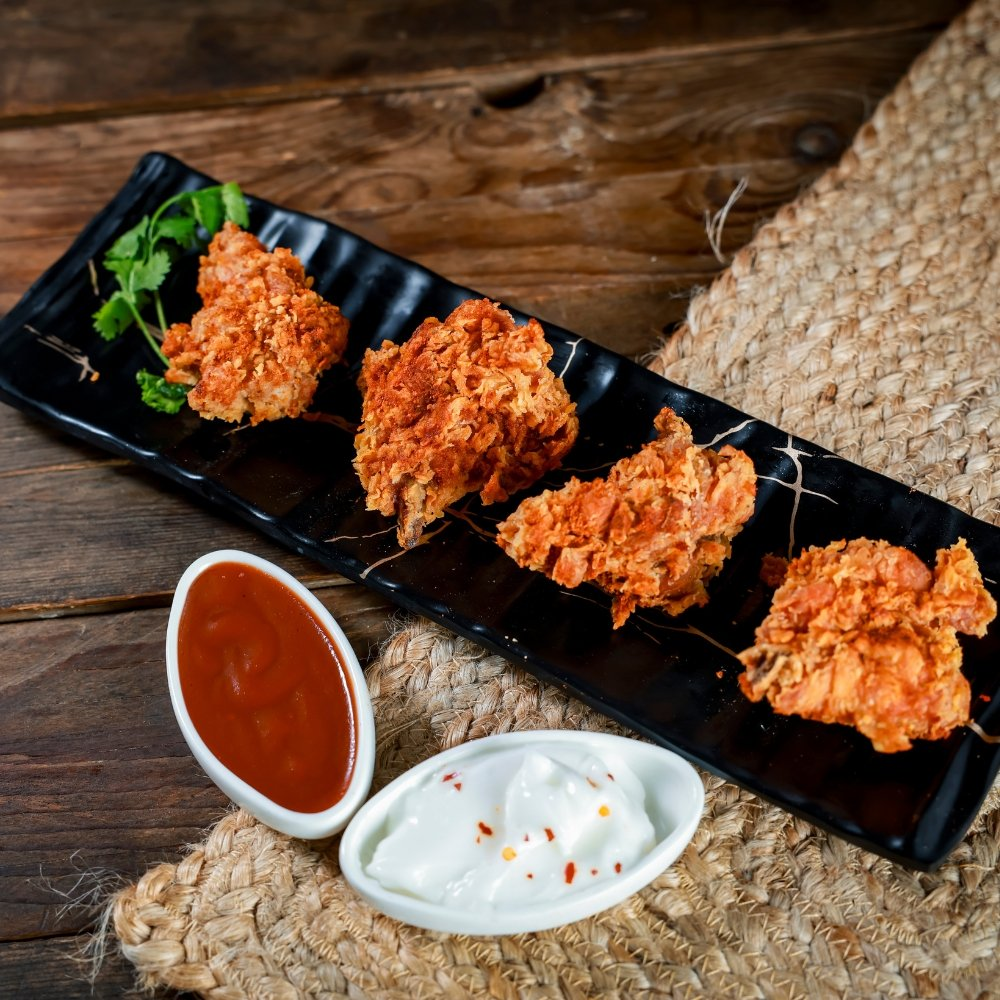
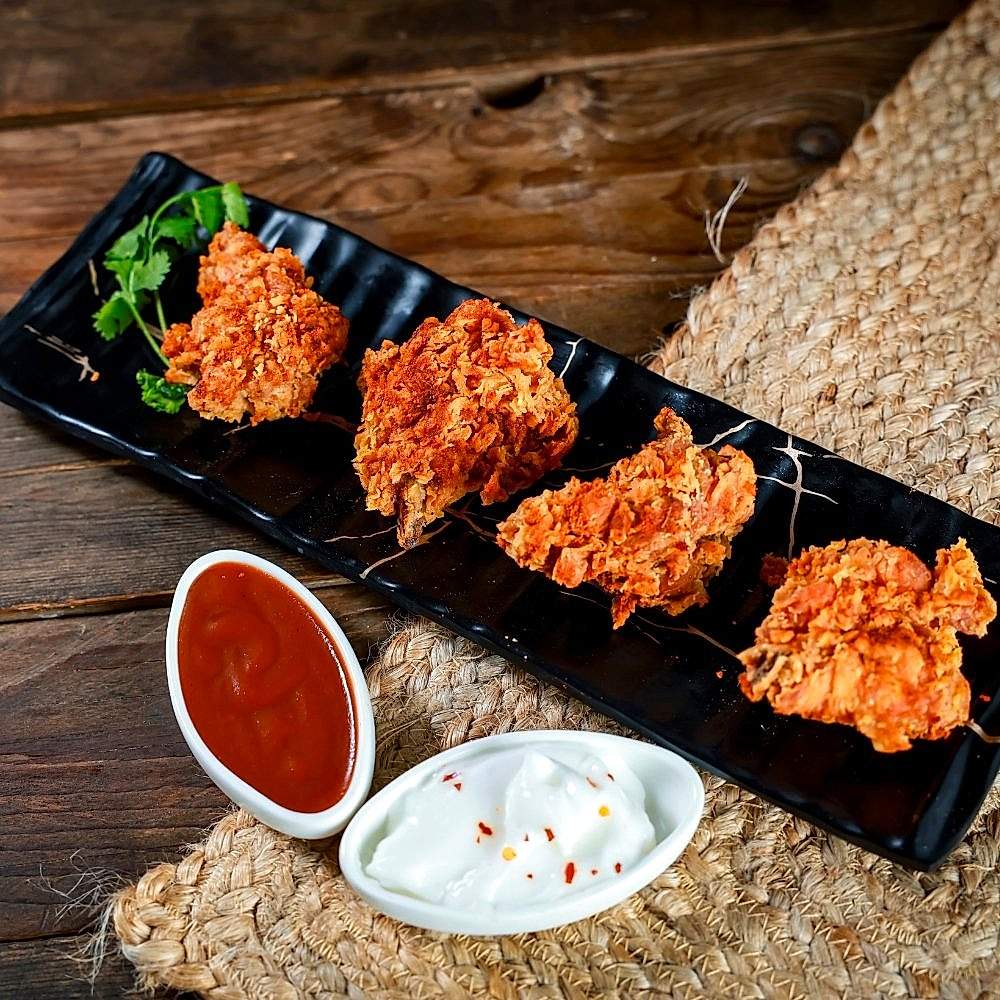
updated

diff --git a/scripts/enhance-images.ts b/scripts/enhance-images.ts
@@ -1,0 +1,67 @@
+import fs from "node:fs/promises";
+import path from "node:path";
+import sharp from "sharp";
+
+const SEED_DIR = path.resolve("prisma/seed-assets");
+const OUT_DIR = path.resolve("prisma/enhanced-assets");
+
+async function enhanceWeCrunch() {
+  await fs.mkdir(OUT_DIR, { recursive: true });
+  console.log("Enhancing WeCrunch images...");
+
+  // 1. about-north.jpg (State Selector image!)
+  const genChickenHero = "C:/Users/Digitfellas/.gemini/antigravity-ide/brain/51b2069d-0af7-46a4-898b-fcd50645957d/wecrunch_state_selector_hero_1792702233494.jpg";
+  if (await fs.stat(genChickenHero).catch(() => null)) {
+    const buf = await fs.readFile(genChickenHero);
+    await sharp(buf)
+      .resize(1600, 1600, { fit: "cover" })
+      .jpeg({ quality: 92 })
+      .toFile(path.join(OUT_DIR, "about-north.jpg"));
+    console.log("✓ Enhanced about-north.jpg (AI 8K Crispy Chicken State Selector Hero)");
+
+    // Also update home-bg.jpg with this high-res hero
+    await sharp(buf)
+      .resize(1600, 1600, { fit: "cover" })
+      .jpeg({ quality: 92 })
+      .toFile(path.join(OUT_DIR, "home-bg.jpg"));
+    console.log("✓ Enhanced home-bg.jpg (AI 8K Crispy Chicken Hero)");
+  }
+
+  // 2. outlet-2.webp (Flagship Night Storefront)
+  const genStore = "C:/Users/Digitfellas/.gemini/antigravity-ide/brain/51b2069d-0af7-46a4-898b-fcd50645957d/wecrunch_flagship_outlet_1792702283316.jpg";
+  if (await fs.stat(genStore).catch(() => null)) {
+    const buf = await fs.readFile(genStore);
+    await sharp(buf)
+      .resize(1536, 2048, { fit: "cover" })
+      .webp({ quality: 92 })
+      .toFile(path.join(OUT_DIR, "outlet-2.webp"));
+    console.log("✓ Enhanced outlet-2.webp (Flagship Night Storefront)");
+  }
+
+  // 3. outlet-1.avif (Color-graded & enhanced)
+  const o1Meta = await sharp(path.join(SEED_DIR, "outlet-1.avif")).metadata();
+  if (o1Meta.width && o1Meta.height) {
+    await sharp(path.join(SEED_DIR, "outlet-1.avif"))
+      .extract({ left: 0, top: 0, width: o1Meta.width, height: o1Meta.height - 80 })
+      .resize({ width: 1200 })
+      .modulate({ brightness: 1.05, saturation: 1.15 })
+      .sharpen({ sigma: 1.2 })
+      .webp({ quality: 92 })
+      .toFile(path.join(OUT_DIR, "outlet-1.webp"));
+    console.log("✓ Enhanced outlet-1 (Cropped fence box, upscaled to 1200p WebP)");
+  }
+
+  // 4. about-tn.jpg
+  if (await fs.stat(path.join(SEED_DIR, "about-tn.jpg")).catch(() => null)) {
+    await sharp(path.join(SEED_DIR, "about-tn.jpg"))
+      .modulate({ brightness: 1.04, saturation: 1.15 })
+      .sharpen({ sigma: 1.2 })
+      .jpeg({ quality: 92 })
+      .toFile(path.join(OUT_DIR, "about-tn.jpg"));
+    console.log("✓ Enhanced about-tn.jpg (Color graded, sharpened)");
+  }
+
+  console.log("All WeCrunch images enhanced successfully!");
+}
+
+enhanceWeCrunch().catch(console.error);

diff --git a/scripts/sync-enhanced-media.ts b/scripts/sync-enhanced-media.ts
@@ -1,0 +1,77 @@
+import "dotenv/config";
+import fs from "node:fs/promises";
+import path from "node:path";
+import { db } from "../src/lib/db";
+import { replaceUpload } from "../src/lib/media";
+import { revalidateCms } from "../src/lib/revalidate";
+
+const ENHANCED_DIR = path.resolve("prisma/enhanced-assets");
+
+const MIME: Record<string, string> = {
+  jpg: "image/jpeg",
+  jpeg: "image/jpeg",
+  png: "image/png",
+  webp: "image/webp",
+  avif: "image/avif",
+};
+
+async function syncMedia() {
+  console.log("Starting WeCrunch enhanced media upload to Vercel Blob & DB sync...");
+  const files = await fs.readdir(ENHANCED_DIR);
+
+  for (const file of files) {
+    const ext = file.split(".").pop()?.toLowerCase() ?? "jpg";
+    const mime = MIME[ext] || "image/jpeg";
+    const fullPath = path.join(ENHANCED_DIR, file);
+    const buffer = await fs.readFile(fullPath);
+
+    // Look up existing asset in database (handle outlet-1.avif vs outlet-1.webp)
+    const baseName = file.replace(/\.[^.]+$/, "");
+    const asset = await db.mediaAsset.findFirst({
+      where: {
+        OR: [
+          { filename: file },
+          { filename: { startsWith: baseName } },
+        ],
+      },
+    });
+
+    if (!asset) {
+      console.warn(`  Skipping ${file}: No existing MediaAsset record found matching ${baseName}`);
+      continue;
+    }
+
+    console.log(`Uploading & replacing [${asset.id}] ${asset.filename} with enhanced ${file}...`);
+    try {
+      const updated = await replaceUpload(asset.id, {
+        buffer,
+        type: mime,
+        filename: file,
+      });
+      console.log(`  ✓ Updated ${asset.filename} -> URL: ${updated.url} (${updated.width}x${updated.height})`);
+    } catch (err: any) {
+      console.error(`  ✗ Error replacing ${file}:`, err.message);
+    }
+  }
+
+  // Copy into seed-assets as well
+  for (const file of files) {
+    const src = path.join(ENHANCED_DIR, file);
+    const dest = path.join(path.resolve("prisma/seed-assets"), file);
+    await fs.copyFile(src, dest).catch(() => {});
+  }
+  console.log("✓ Copied enhanced files into prisma/seed-assets/");
+
+  try {
+    revalidateCms();
+    console.log("✓ CMS cache revalidated.");
+  } catch {
+    // ignore outside Next.js request context
+  }
+
+  console.log("WeCrunch media sync completed successfully!");
+}
+
+syncMedia()
+  .catch(console.error)
+  .finally(() => process.exit(0));

diff --git a/scripts/inspect-media.ts b/scripts/inspect-media.ts
@@ -1,0 +1,25 @@
+import "dotenv/config";
+import { db } from "../src/lib/db";
+
+async function main() {
+  const assets = await db.mediaAsset.findMany({
+    where: {
+      OR: [
+        { folder: "gallery" },
+        { folder: "backgrounds" },
+        { folder: "about" },
+        { filename: { contains: "outlet" } },
+        { filename: { contains: "home-bg" } },
+        { filename: { contains: "about" } },
+      ],
+    },
+    select: { id: true, filename: true, key: true, url: true, provider: true, width: true, height: true, folder: true },
+  });
+  console.log(`WECRUNCH ASSETS COUNT: ${assets.length}`);
+  for (const a of assets) {
+    console.log(`[${a.folder}] ${a.filename} (${a.width}x${a.height}) - id: ${a.id}`);
+    console.log(`   url: ${a.url}`);
+  }
+}
+
+main().catch(console.error).finally(() => process.exit(0));
